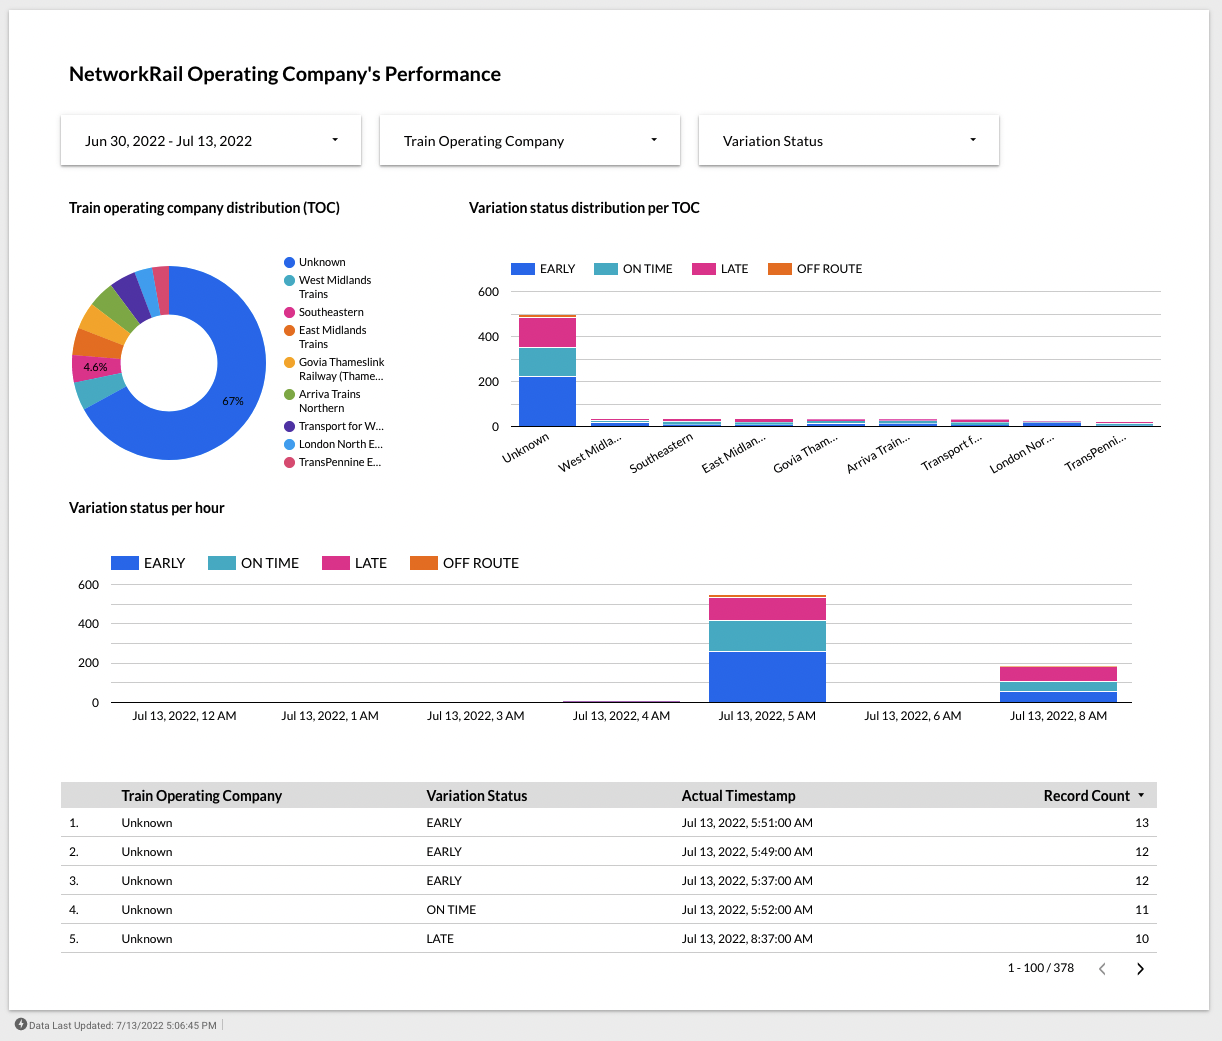
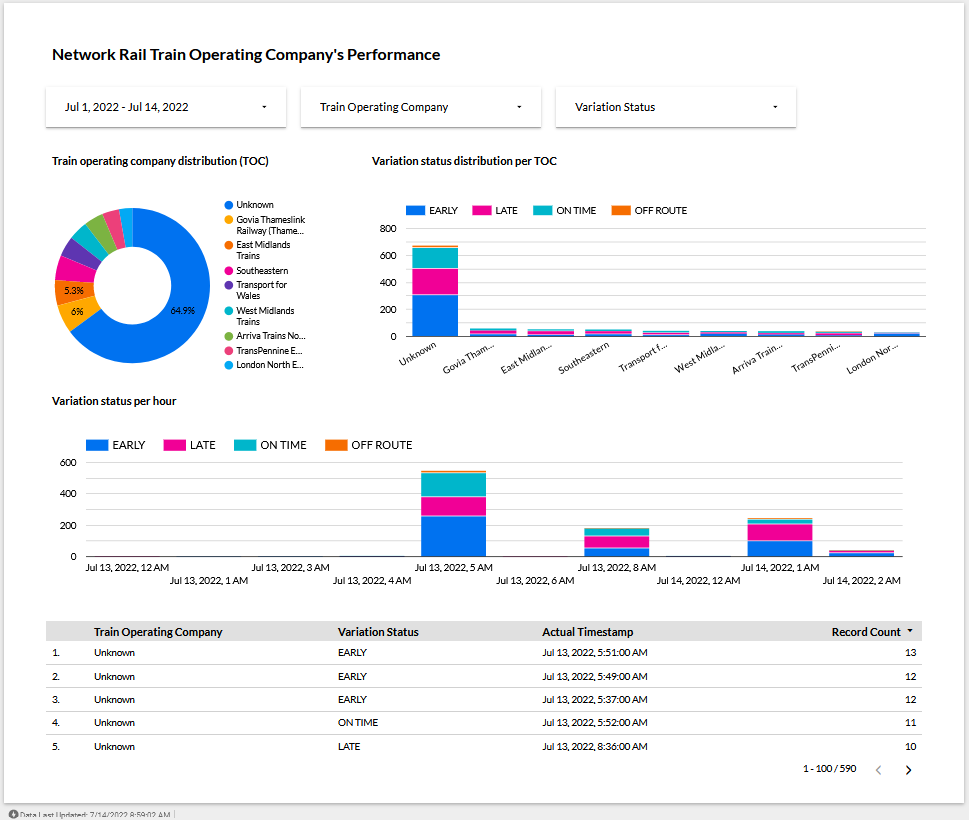
Wrap everything up and revise text :bear:

diff --git a/README.md b/README.md
@@ -7,6 +7,7 @@
 * [Technologies](#technologies)
 * [Files and What They Do](#files-and-what-they-do)
 * [Instruction on Running the Project](#instruction-on-running-the-project)
+* [References](#references)
 
 ## Project Overview
 
@@ -17,19 +18,20 @@ livestream of train movement data and analyze the train operating company's
 performance.  The source of streaming data comes from the [UK's Network Rail
 company](https://datafeeds.networkrail.co.uk) provided through an ActiveMQ
 interface. A train movement message is sent whenever a train arrives, passes or
-departs a location. It records the time at which the event happens.
+departs a location. It also records the time at which the event happens.
 
-We first extract the live stream of train movement messages from the ActiveMQ
-endpoint and stream the messages into Kafka. We then consume and put them into
-a data lake (MinIO). After that we schedule a data pipeline (Airflow) to run
-daily to load the data to a data warehouse (Google BigQuery). Later on, we
-transform the data in the warehouse using dbt. Finally, once the data is
-cleaned and transformed, we can monitor and analyze the data on a dashboard
-(Google Data Studio).
+In this project, we first extract the live stream of train movement messages
+from the Network Rail's ActiveMQ endpoint and stream the messages into Kafka.
+We then consume and put them into a data lake (MinIO). After that we schedule a
+data pipeline (Airflow) to run daily to load the data to a data warehouse
+(Google BigQuery). Later on, we transform the data in the warehouse using dbt.
+Finally, once the data is cleaned and transformed, we can monitor and analyze
+the data on a dashboard (Google Data Studio).
 
 ## Dataset
 
-[Network Rail](https://datafeeds.networkrail.co.uk)
+In this project, our dataset is the public data feed provided by [Network
+Rail](https://datafeeds.networkrail.co.uk).
 
 ![Network Rail feed](./img/networkrail-feed.png)
 
@@ -63,26 +65,33 @@ cleaned and transformed, we can monitor and analyze the data on a dashboard
 
 ## Instruction on Running the Project
 
-### Services
+Here is the list of services we use in this project:
 
 * Confluent Control Center: http://localhost:9021
 * Airflow UI: http://localhost:8080
 * MinIO Console: http://localhost:9001
 
-### Starting the Project
-
-Before we can get the NetworkRail data feed, we'll need to register a new
-account on [the NetworkRail website](https://datafeeds.networkrail.co.uk/)
-first.
-
-To start all services:
+We can start all services by running the commands below:
 
 ```sh
 make setup
 make up
 ```
 
-To set up a virtual environment and install package dependencies:
+To shutdown all services, run:
+
+```sh
+make down
+```
+
+### Getting Started
+
+Before we can get the Network Rail data feed, we'll need to register a new
+account on [the Network Rail website](https://datafeeds.networkrail.co.uk/)
+first.
+
+After we have the account, let's set up a virtual environment and install
+package dependencies:
 
 ```sh
 python -m venv ENV
@@ -90,40 +99,44 @@ source ENV/bin/activate
 pip install -r requirements.txt
 ```
 
-Note that we'll need to install the Apache Kafka C/C++ Library named
-[librdkafka](https://github.com/edenhill/librdkafka) too.
+**Note:** We need to install the Apache Kafka C/C++ Library named
+[librdkafka](https://github.com/edenhill/librdkafka) first.
 
-To get the NetworkRail data and produce messages to the Kafka:
+Once we've installed the package dependencies, we can run the following command
+to get the Network Rail livestream data and produce messages to the Kafka:
 
 ```sh
 python get_networkrail_movements.py
 ```
 
-Before we can consume the messages from Kafka, we'll need to set up a service
-account first, so we can put the data into a data lake.
+Before we can consume the messages from Kafka, we need to set up a service
+account on MinIO first, so we can put the data into a data lake. Please see the
+[Steps to Set Up a Service Account on
+MinIO](#steps-to-set-up-a-service-account-on-minio) section.
+
+After we have the service account, we'll save the AWS access key ID and AWS
+secret access key from MinIO to the file `.env`. Here we have an example env
+file, so we can use it as a template.
 
 ```sh
 cp env.example .env
 ```
 
-We then save the AWS access key ID and AWS secret access key from MinIO to the
-file `.env`.
-
-To consume the messages from Kafka:
+To consume the messages from Kafka, run the following commands:
 
 ```sh
 export $(cat .env)
 python consume_networkrail_movements_to_data_lake.py
 ```
 
-After that we can go to the Airflow UI to run the data pipeline and wait for
-the data to show up on the dashboard.
+All the messages should be in the data lake (MinIO) by now.
 
-To shutdown all services:
+We can go to the Airflow UI and manually trigger the data pipeline to load the
+data to the data warehouse (Google BigQuery) then wait for the data to show up
+on the dashboard (Google Data Studio). See the live dashboard
+[here](https://datastudio.google.com/reporting/5d38cb3d-248e-4aed-b65f-0db54fab4b9d).
 
-```sh
-make down
-```
+## References
 
 ### Kafka Topic on Confluent Control Center
 
@@ -139,32 +152,6 @@ The screenshots below show the data pipeline on Airflow.
 
 ![Data Pipeline on Airflow 2](./img/airflow-data-pipeline-02.png)
 
-### Data Models on Google BigQuery
-
-The screenshot below shows the data models on Google BigQuery.
-
-![Data Models on Google BigQuery](./img/data-models-on-bigquery.png)
-
-### TOC Performance Dashboard
-
-The screenshot below shows the dashboard to monitor the train operating
-company's performance.
-
-![TOC Performance Dashboard](./img/toc-performance-dashboard.png)
-
-### Steps to Set Up a Service Account on MinIO
-
-The screenshots below show how to set up a service account on MinIO. Airflow
-needs it in order to get data from the MinIO storage.
-
-![Set up a Service Account on MinIO 1](./img/minio-set-up-service-account-01.png)
-
-![Set up a Service Account on MinIO 2](./img/minio-set-up-service-account-02.png)
-
-![Set up a Service Account on MinIO 3](./img/minio-set-up-service-account-03.png)
-
-![Set up a Service Account on MinIO 4](./img/minio-set-up-service-account-04.png)
-
 ### Airflow S3 Connection to MinIO
 
 - Connection Name: `minio` or any name you like
@@ -179,6 +166,35 @@ needs it in order to get data from the MinIO storage.
   ```
 
 **Note:** If we were using AWS S3, we don't need to specify the host in the extra.
+
+### Data Models on Google BigQuery
+
+The screenshot below shows the data models on Google BigQuery.
+
+![Data Models on Google BigQuery](./img/data-models-on-bigquery.png)
+
+### Network Rail TOC's Performance Dashboard
+
+The screenshot below shows the dashboard to monitor the Network Rail train
+operating company (TOC)'s performance. View the live dashboard here: [Network
+Rail Train Operating Company's
+Performance](https://datastudio.google.com/reporting/5d38cb3d-248e-4aed-b65f-0db54fab4b9d).
+
+![Network Rail TOC's Performance Dashboard](./img/toc-performance-dashboard.png)
+
+
+### Steps to Set Up a Service Account on MinIO
+
+The screenshots below show how to set up a service account on MinIO. Airflow
+needs it in order to get data from the MinIO storage.
+
+![Set up a Service Account on MinIO 1](./img/minio-set-up-service-account-01.png)
+
+![Set up a Service Account on MinIO 2](./img/minio-set-up-service-account-02.png)
+
+![Set up a Service Account on MinIO 3](./img/minio-set-up-service-account-03.png)
+
+![Set up a Service Account on MinIO 4](./img/minio-set-up-service-account-04.png)
 
 ### Steps to Set Up a Service Account on Google Cloud Platform (GCP)
 
